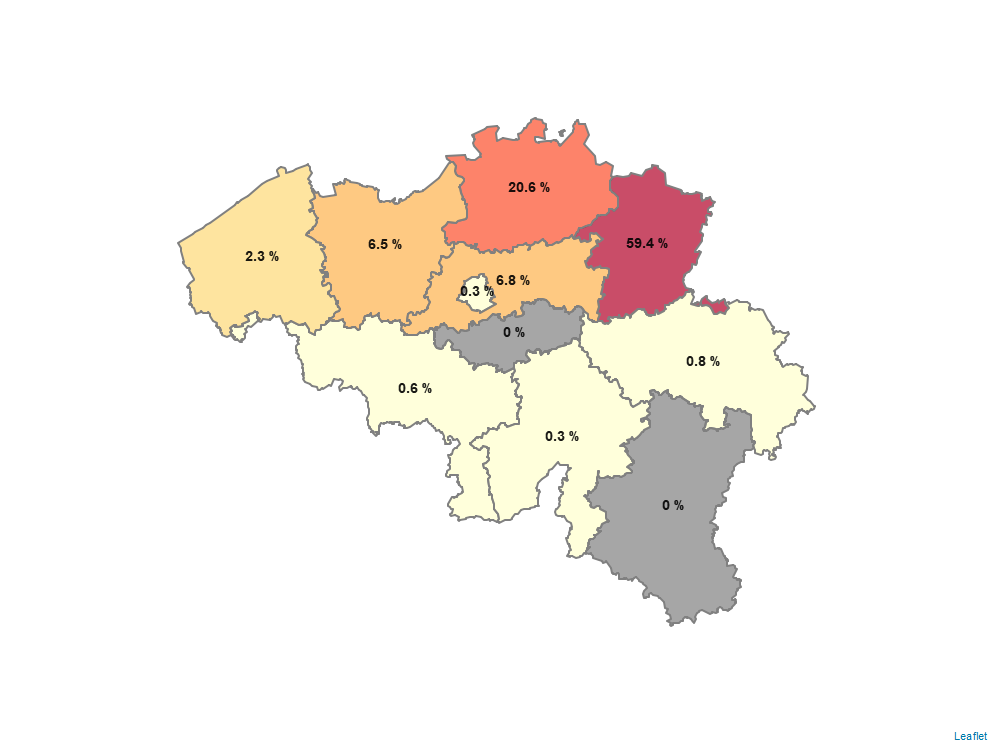
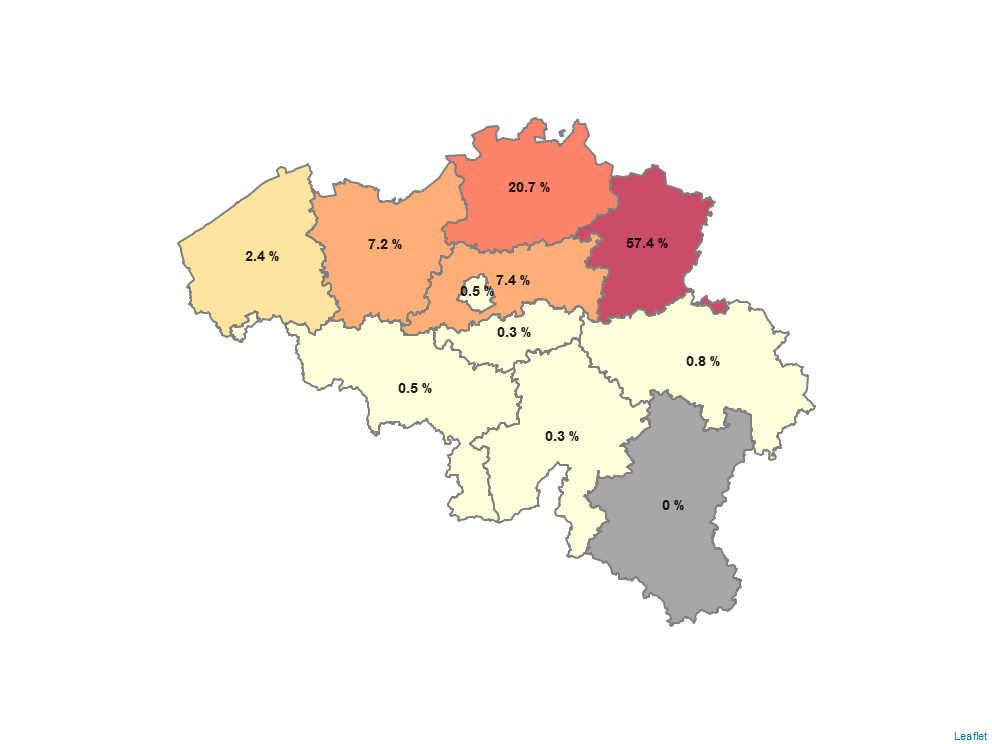
Update results 7 April

Changed region(s): [[0.3125, 0.2164, 0.625, 0.4946]]

diff --git a/public/belgium/locales/nl-be/results/results-0.md b/public/belgium/locales/nl-be/results/results-0.md
@@ -1,4 +1,4 @@
-`Deze pagina is voor het laatst aangepast op 06.april.2021 17:00.`
+`Deze pagina is voor het laatst aangepast op 08.april.2021 19:00.`
 <br />
 
 Op deze pagina vindt u de actuele resultaten van Infectieradar.
@@ -7,7 +7,7 @@ Op deze pagina vindt u de actuele resultaten van Infectieradar.
 
 ## Achtergrond Informatie
 
-Op 6 april 2021 hadden we 355 deelnemers. 50.7% van de deelnemers is vrouw, en 49.3% is man. Een meerderheid van deelnemers (83.7%) rapporteerden dat ze nog geen Covid-19 hebben gehad. 4.2% van de deelnemers hebben in het verleden positief getest op Covid-19. 12.1% van de deelnemers hebben een sterk vermoeden dat ze Covid-19 hebben gehad.
+Op 7 april 2021 hadden we 376 deelnemers. 50.3% van de deelnemers is vrouw, en 49.7% is man. Een meerderheid van deelnemers (84%) rapporteerden dat ze nog geen Covid-19 hebben gehad. 4% van de deelnemers hebben in het verleden positief getest op Covid-19. 12% van de deelnemers hebben een sterk vermoeden dat ze Covid-19 hebben gehad.
 <br />
 
 ### Leeftijdsverdeling
@@ -25,7 +25,7 @@ Op 6 april 2021 hadden we 355 deelnemers. 50.7% van de deelnemers is vrouw, en 4
 
 ## Wekelijkse Symptomen
 
-Op 6 april 2021 hadden we 514 ingevulde wekelijkse symptomen vragenlijsten van 319 deelnemers. In 69.5% van de vragenlijsten werd gerapporteerd dat er *geen symptomen* waren.
+Op 6 april 2021 hadden we 570 ingevulde wekelijkse symptomen vragenlijsten van 342 deelnemers. In 69.3% van de vragenlijsten werd gerapporteerd dat er *geen symptomen* waren.
 
 ### Gerapporteerde symptomen
 In de figuur hieronder geven we procentueel aan hoe vaak een bepaald symptoom is gerapporteerd in de vragenlijsten waarbij minstens één symptoom werd doorgegeven.

diff --git a/public/belgium/locales/de-be/results/results-0.md b/public/belgium/locales/de-be/results/results-0.md
@@ -1,4 +1,4 @@
-`Diese Seite wurde zum letzten Mal angepasst am 06.apr.2021 17:00.`
+`Diese Seite wurde zum letzten Mal angepasst am 07.apr.2021 19:00.`
 <br />
 
 On this page you will be able to see the latest results from the data collected by Infectieradar.be.
@@ -7,7 +7,7 @@ On this page you will be able to see the latest results from the data collected 
 
 ## Background Information
 
-On April 6, 2021 we had 355 participants. 50.7% of the participants are female, and 49.3% male. The majority of the participants (83.7%) reported having no previous Covid-19 episode. 4.2% of the participants had a positive Covid-19 test in the past. 12.1% of the participants think they had a previous Covid-19 episode.
+On April 7, 2021 we had 376 participants. 50.3% of the participants are female, and 49.7% male. The majority of the participants (84%) reported having no previous Covid-19 episode. 4% of the participants had a positive Covid-19 test in the past. 12% of the participants think they had a previous Covid-19 episode.
 <br />
 
 ### Age distribution
@@ -25,7 +25,7 @@ On April 6, 2021 we had 355 participants. 50.7% of the participants are female, 
 
 ## Weekly Symptoms
 
-On April 6, 2021 we had 514 completed weekly symptom questionnaires from 319 participants. In 69.5% of the symptom questionnaires it was reported that there were *no symptoms*.
+On April 7, 2021 we had 570 completed weekly symptom questionnaires from 319 participants. In 69.3% of the symptom questionnaires it was reported that there were *no symptoms*.
 
 ### Reported symptoms
 

diff --git a/public/belgium/locales/fr-be/results/results-0.md b/public/belgium/locales/fr-be/results/results-0.md
@@ -1,4 +1,4 @@
-`Dernière modification de cette page le 6.apr.2021 17:00.`
+`Dernière modification de cette page le 7.apr.2021 19:00.`
 <br />
 
 On this page you will be able to see the latest results from the data collected by Infectieradar.be.
@@ -7,7 +7,7 @@ On this page you will be able to see the latest results from the data collected 
 
 ## Background Information
 
-On April 6, 2021 we had 355 participants. 50.7% of the participants are female, and 49.3% male. The majority of the participants (83.7%) reported having no previous Covid-19 episode. 4.2% of the participants had a positive Covid-19 test in the past. 12.1% of the participants think they had a previous Covid-19 episode.
+On April 7, 2021 we had 376 participants. 50.3% of the participants are female, and 49.7% male. The majority of the participants (84%) reported having no previous Covid-19 episode. 4% of the participants had a positive Covid-19 test in the past. 12% of the participants think they had a previous Covid-19 episode.
 <br />
 
 ### Age distribution
@@ -25,7 +25,7 @@ On April 6, 2021 we had 355 participants. 50.7% of the participants are female, 
 
 ## Weekly Symptoms
 
-On April 6, 2021 we had 514 completed weekly symptom questionnaires from 319 participants. In 69.5% of the symptom questionnaires it was reported that there were *no symptoms*.
+On April 7, 2021 we had 570 completed weekly symptom questionnaires from 319 participants. In 69.3% of the symptom questionnaires it was reported that there were *no symptoms*.
 
 ### Reported symptoms
 

diff --git a/public/belgium/locales/en/results/results-0.md b/public/belgium/locales/en/results/results-0.md
@@ -1,4 +1,4 @@
-`This page has been last updated at 06.apr.2021 17:00.`
+`This page has been last updated at 07.apr.2021 19:00.`
 <br />
 
 On this page you will be able to see the latest results from the data collected by Infectieradar.be.
@@ -7,7 +7,7 @@ On this page you will be able to see the latest results from the data collected 
 
 ## Background Information
 
-On April 6, 2021 we had 355 participants. 50.7% of the participants are female, and 49.3% male. The majority of the participants (83.7%) reported having no previous Covid-19 episode. 4.2% of the participants had a positive Covid-19 test in the past. 12.1% of the participants think they had a previous Covid-19 episode.
+On April 7, 2021 we had 376 participants. 50.3% of the participants are female, and 49.7% male. The majority of the participants (84%) reported having no previous Covid-19 episode. 4% of the participants had a positive Covid-19 test in the past. 12% of the participants think they had a previous Covid-19 episode.
 <br />
 
 ### Age distribution
@@ -25,7 +25,7 @@ On April 6, 2021 we had 355 participants. 50.7% of the participants are female, 
 
 ## Weekly Symptoms
 
-On April 6, 2021 we had 514 completed weekly symptom questionnaires from 319 participants. In 69.5% of the symptom questionnaires it was reported that there were *no symptoms*.
+On April 7, 2021 we had 570 completed weekly symptom questionnaires from 319 participants. In 69.3% of the symptom questionnaires it was reported that there were *no symptoms*.
 
 ### Reported symptoms
 
